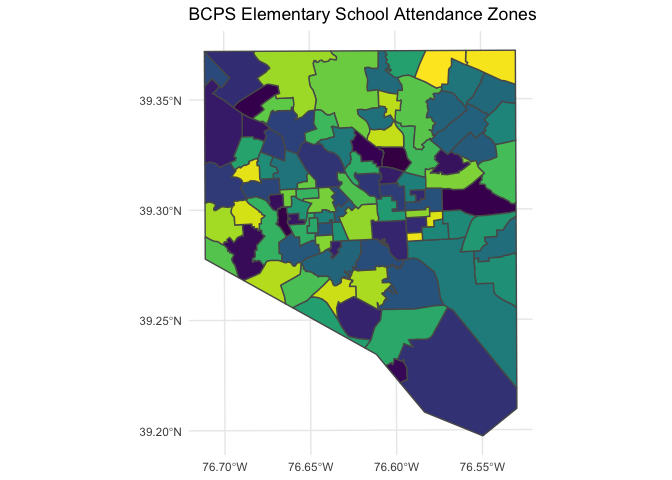
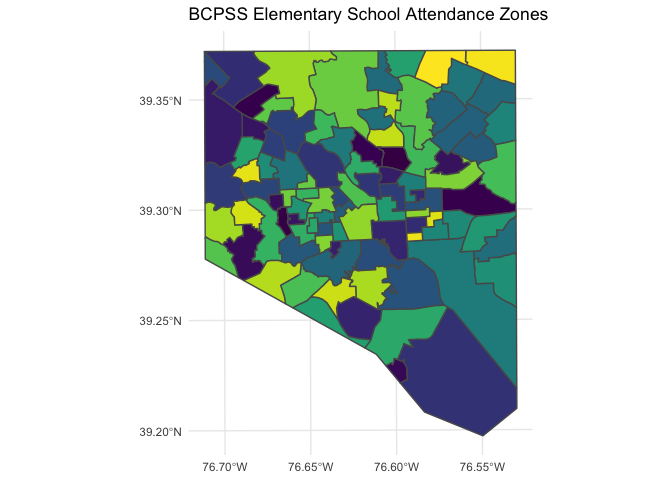
Update README w/ new package name

Changed region(s): [[0.3438, 0.0, 0.8125, 0.0625]]

diff --git a/README.md b/README.md
@@ -1,16 +1,17 @@
 
 <!-- README.md is generated from README.Rmd. Please edit that file -->
 
-# bcps
+# bcpss
 
 <!-- badges: start -->
 <!-- badges: end -->
 
-The goal of bcps is to make data from Baltimore City Public Schools more
-consistent and accessible to R users. This package may pair well with
-the [mapbaltimore package](https://github.com/elipousson/mapbaltimore)
-that offers a broader range of Baltimore-specific datasets and functions
-for working with that data.
+The goal of bcpss is to make data from the Baltimore City Public School
+system more consistent and accessible to R users. This package may pair
+well with the [mapbaltimore
+package](https://github.com/elipousson/mapbaltimore) that offers a
+broader range of Baltimore-specific datasets and functions for working
+with that data.
 
 ## Installation
 
@@ -19,7 +20,7 @@ You can install the development version from
 
 ``` r
 # install.packages("remotes")
-remotes::install_github("elipousson/bcps")
+remotes::install_github("elipousson/bcpss")
 ```
 
 ## Example
@@ -32,7 +33,7 @@ questions, such as, what are the elementary schools with the greatest
 total student enrollment?
 
 ``` r
-library(bcps)
+library(bcpss)
 library(dplyr)
 #> 
 #> Attaching package: 'dplyr'
@@ -51,7 +52,7 @@ top_5_es <- enrollment_demographics_SY1920 %>%
   arrange(desc(total_enrollment))
 
 top_5_es %>% 
-  knitr::kable(caption = "Five largest BCPS elementary schools by total enrollment")
+  knitr::kable(caption = "Five largest BCPSS elementary schools by total enrollment")
 ```
 
 | school\_number | school\_name                   | total\_enrollment |
@@ -62,7 +63,7 @@ top_5_es %>%
 |             83 | William Paca Elementary School |               509 |
 |            206 | Furley Elementary School       |               495 |
 
-Five largest BCPS elementary schools by total enrollment
+Five largest BCPSS elementary schools by total enrollment
 
 Both the enrollment/demographic data and the parent survey are available
 in both a wide and long format.
@@ -78,7 +79,7 @@ bcps_es_zones_SY2021 %>%
   geom_sf(aes(fill = zone_name)) +
   scale_fill_viridis_d() +
   guides(fill = "none") +
-  labs(title = "BCPS Elementary School Attendance Zones") +
+  labs(title = "BCPSS Elementary School Attendance Zones") +
   theme_minimal()
 ```
 
@@ -98,7 +99,7 @@ top_5_es_map <- bcps_programs_SY2021 %>%
   geom_sf_label(aes(label = program_name_short, fill = school_name), color = "white") +
   scale_fill_viridis_d(end = 0.7) +
   guides(fill = "none", color = "none") +
-  labs(title = "Five largest BCPS elementary schools by total enrollment") +
+  labs(title = "Five largest BCPSS elementary schools by total enrollment") +
   theme_minimal()
 
 top_5_es_map
